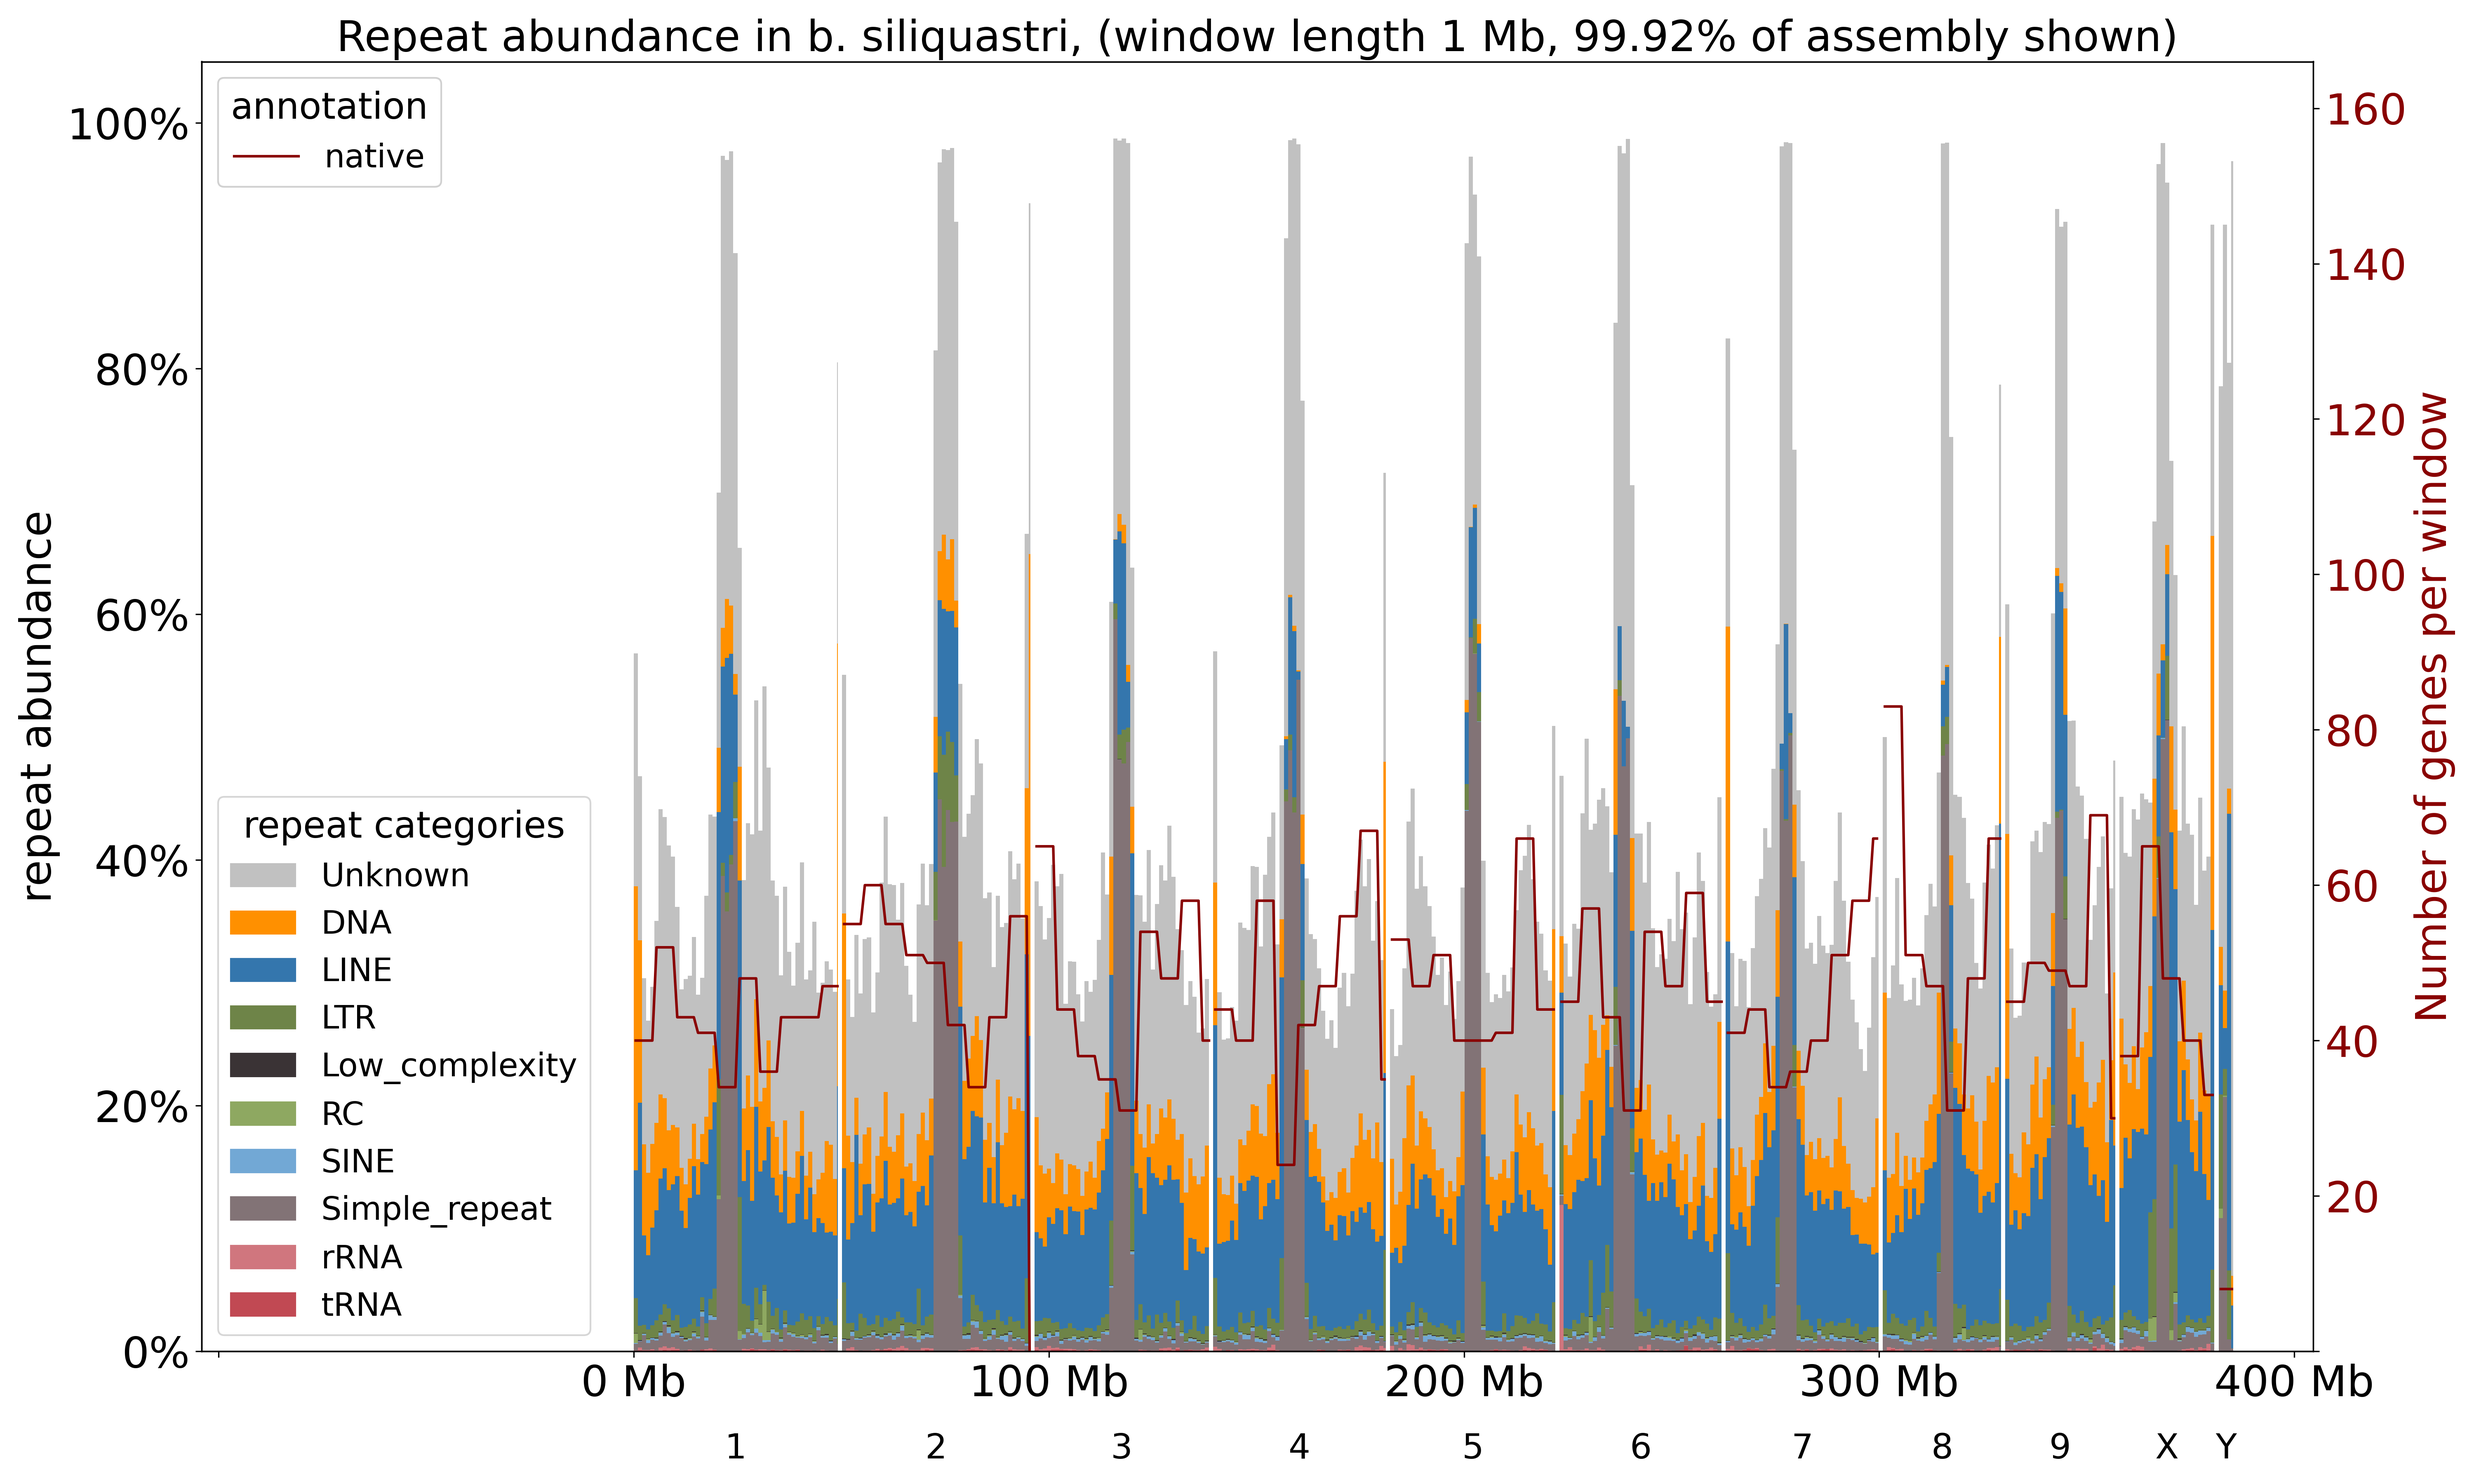
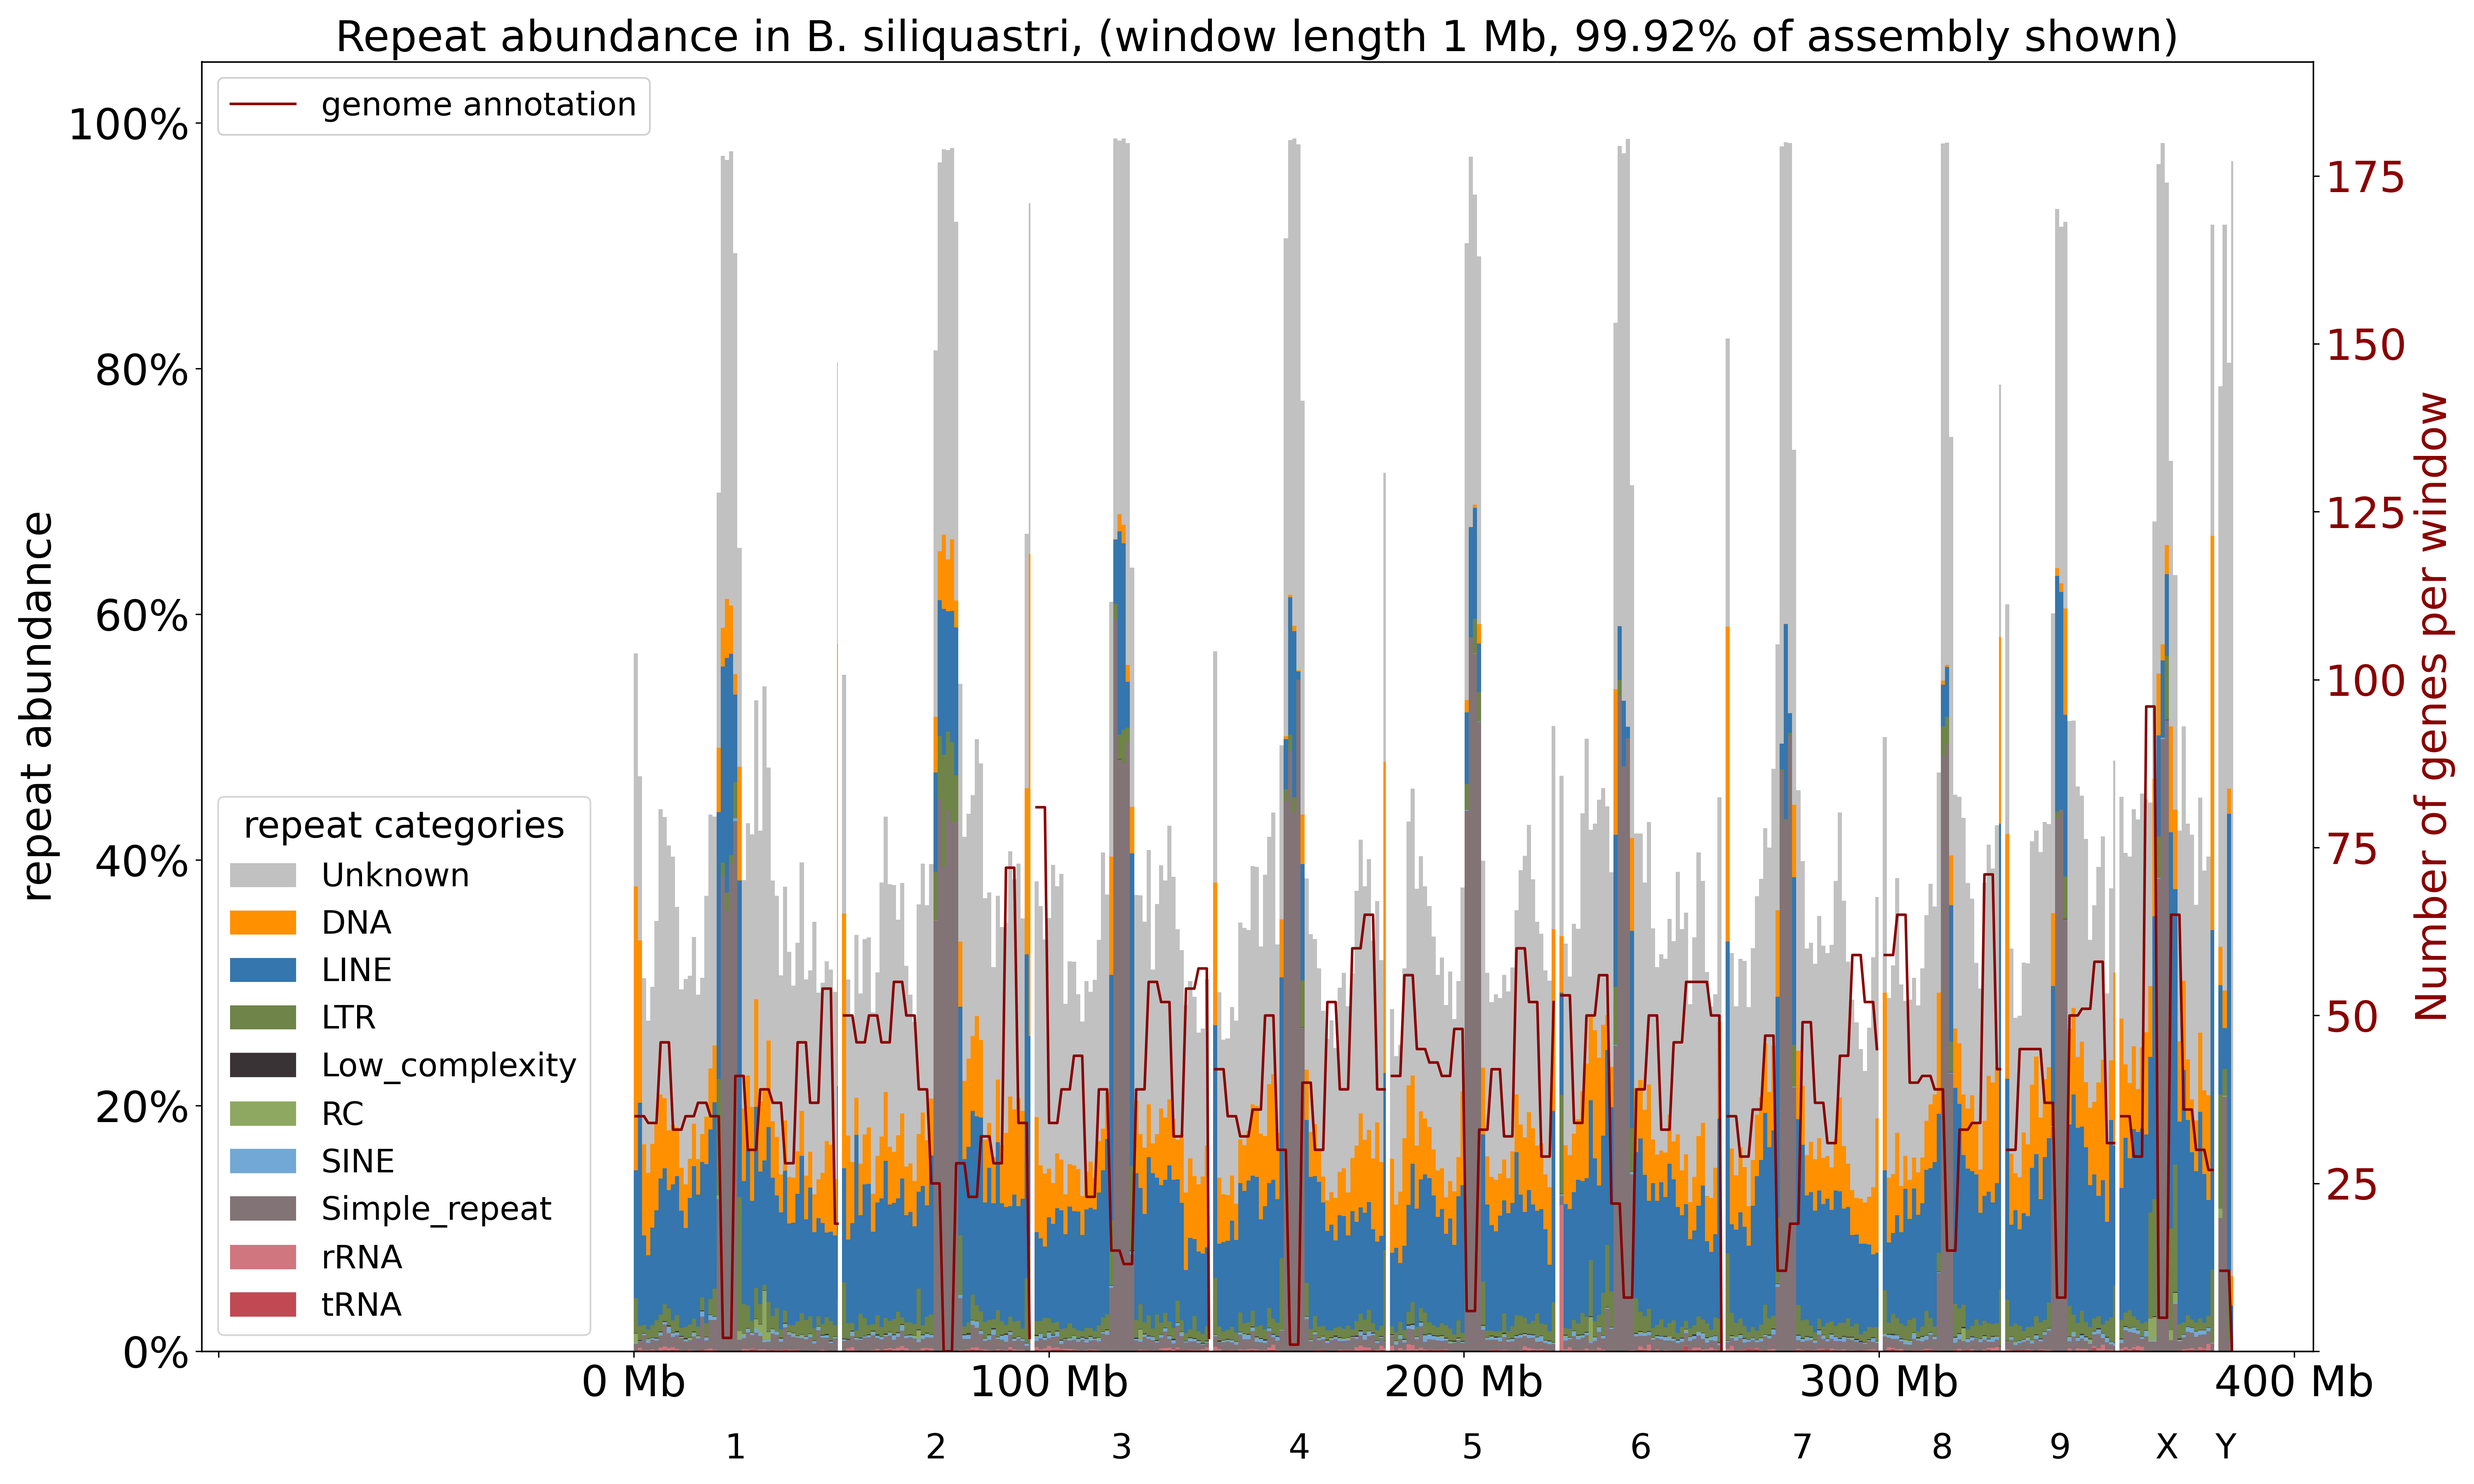
change genome annot legend

diff --git a/src/ReVis/plot_stacked_hist.py b/src/ReVis/plot_stacked_hist.py
@@ -265,6 +265,7 @@ def plot_repeat_abundance(species_abundances, species_categories, gff_filepath, 
             ax3.tick_params(axis ='y', labelcolor = genes_line_color, labelsize = fs)  
             
             gene_nos_plot, = ax3.plot(gene_positions, gene_numbers_in_window, color = genes_line_color, label = "native")
+            ax3.yaxis.set_major_formatter(FuncFormatter(lambda x, pos: '' if x == 0 else int(x)))
             # gene_nos_plot, = ax3.plot(gene_positions, gene_numbers_in_window, color = genes_line_color2, label = "orthoDB", linestyle = ":")
 
             if include_genes_line2:
@@ -279,7 +280,6 @@ def plot_repeat_abundance(species_abundances, species_categories, gff_filepath, 
     # convert x axis to Mb
     # Set the primary x-axis formatter to convert bp to Mb
     ax.xaxis.set_major_formatter(FuncFormatter(lambda x, pos: '' if x < 0 else f'{x / 1e6:.0f} Mb'))
-    ax3.yaxis.set_major_formatter(FuncFormatter(lambda x, pos: '' if x == 0 else int(x)))
 
     # add contig names
     # Set the secondary x-axis ticks and labels
@@ -323,11 +323,11 @@ def plot_repeat_abundance(species_abundances, species_categories, gff_filepath, 
         # make legends for repeat lines (hard coded labes in plot command above!)
         # repeat_lines = [gene_nos_plot, gene_nos_plot2]
         repeat_lines = ax3.get_lines()
-        legend_lines = plt.legend(repeat_lines, ["native", "uniform"], loc = "upper left", fontsize = fs*0.75, title = "annotation", title_fontsize = fs*0.85)
+        legend_lines = plt.legend(repeat_lines, ["1", "2"], loc = "upper left", fontsize = fs*0.75, title = "genome annotation", title_fontsize = fs*0.85)
         plt.gca().add_artist(legend_lines)
     elif include_genes_line and not include_genes_line2:
         repeat_lines = ax3.get_lines()
-        legend_lines = plt.legend(repeat_lines, ["native"], loc = "upper left", fontsize = fs*0.75, title = "annotation", title_fontsize = fs*0.85)
+        legend_lines = plt.legend(repeat_lines, ["genome annotation"], loc = "upper left", fontsize = fs*0.75, title_fontsize = fs*0.85)
         # legend_lines = plt.legend(repeat_lines, ["orthoDB"], loc = "upper left", fontsize = fs, title = "annotation", title_fontsize = fs)
         plt.gca().add_artist(legend_lines)
 
